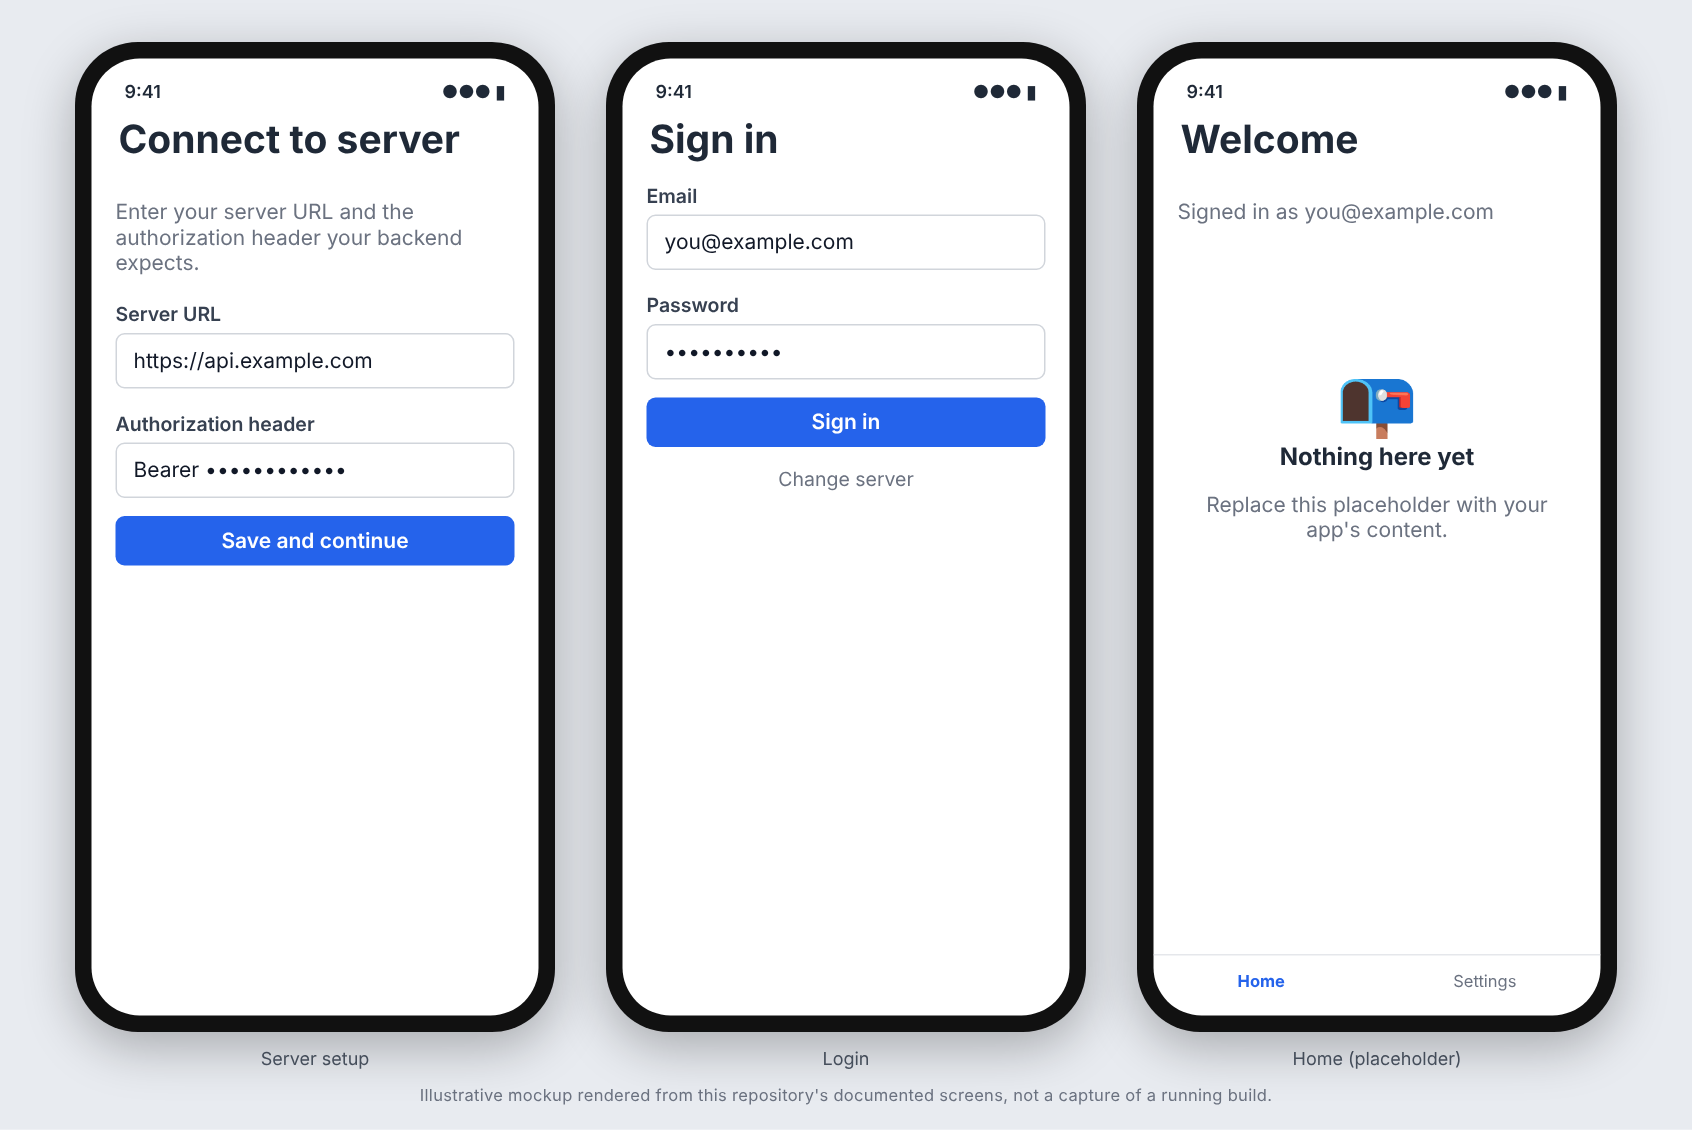
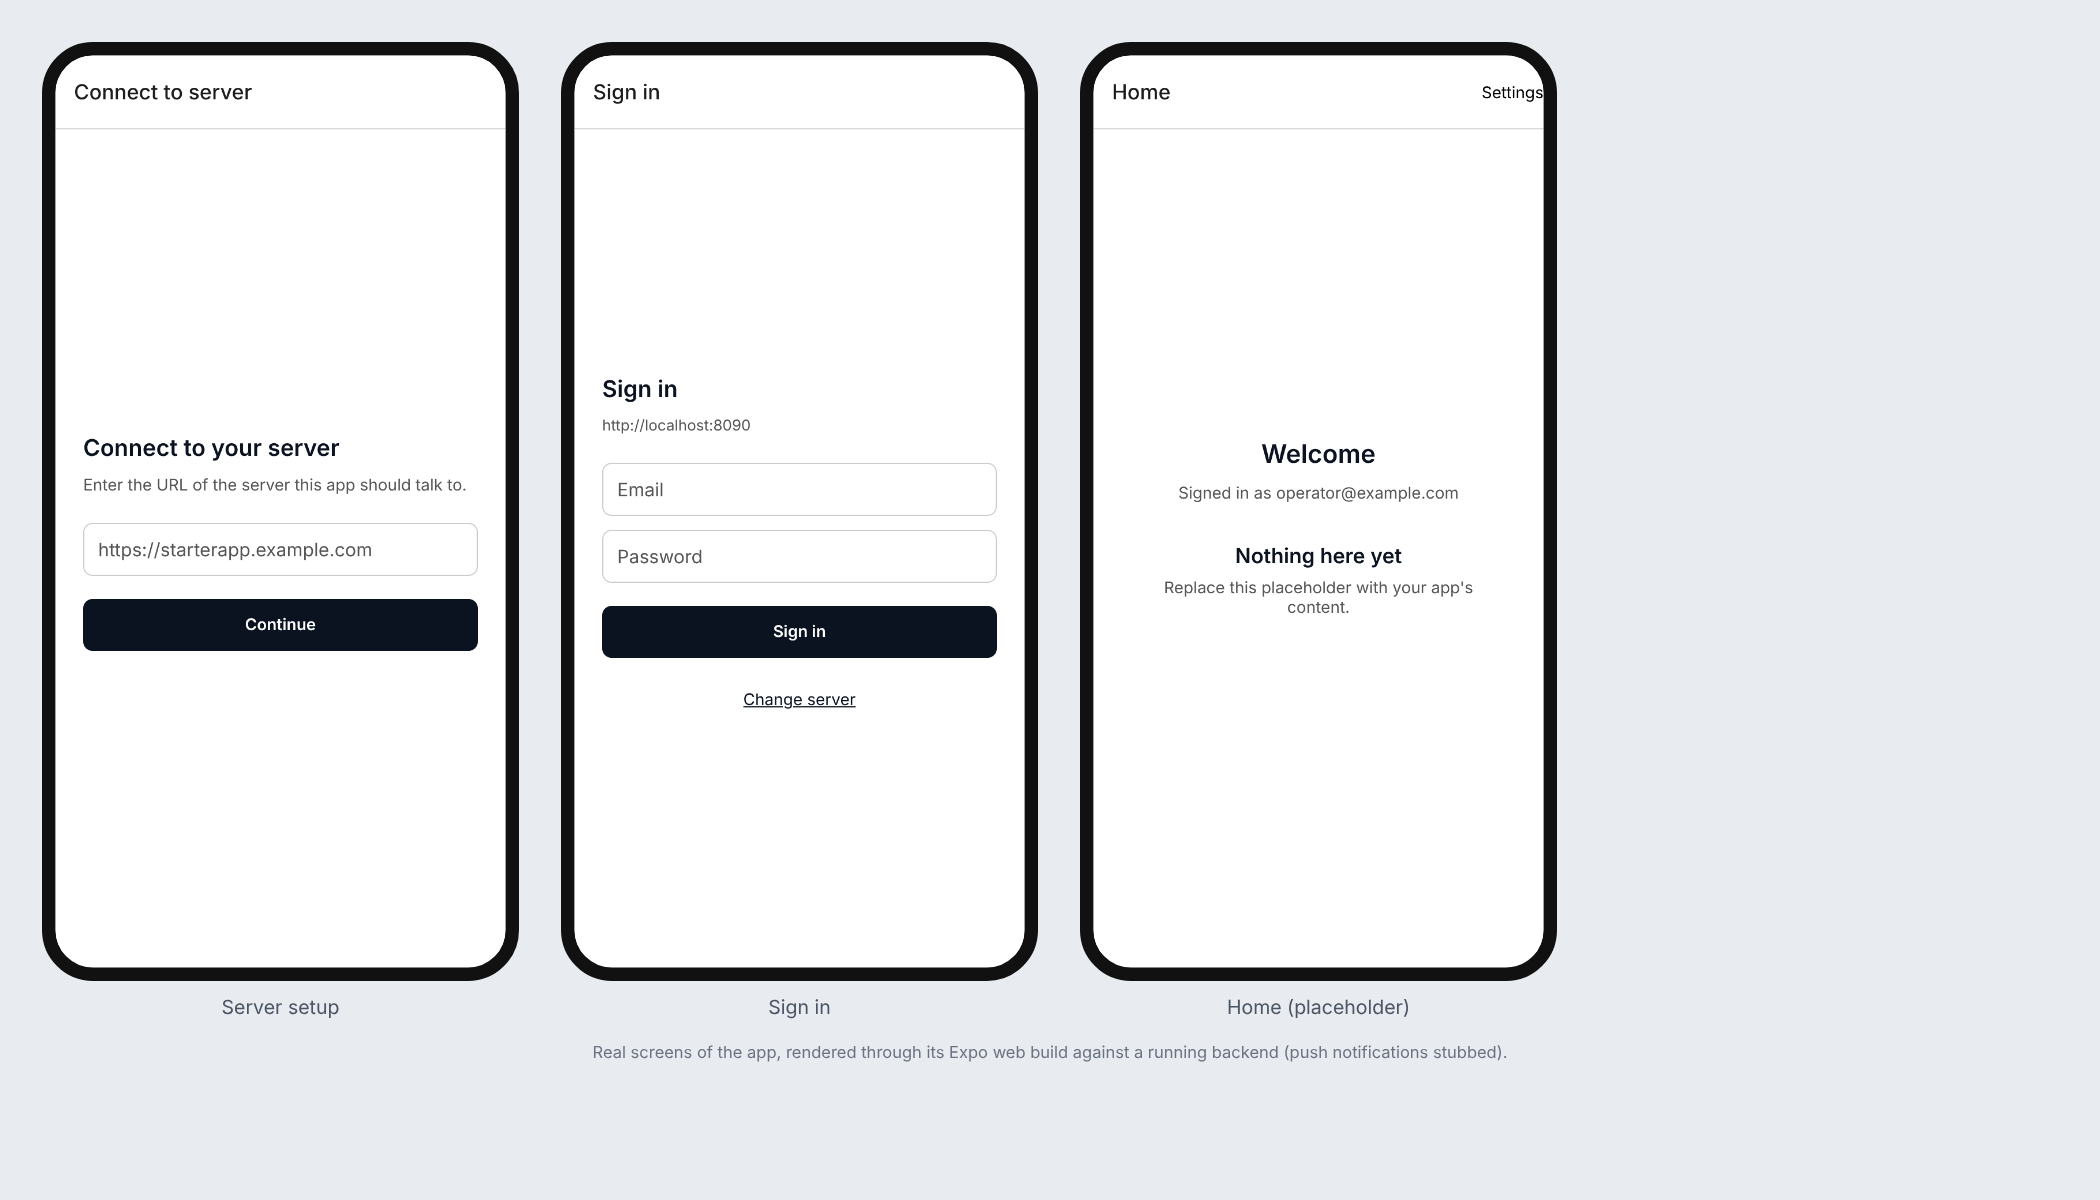
Replace mockups with real screens rendered from the Expo web build
Claude-Session: https://claude.ai/code/session_01MMnAbBEvfYn2oeVzGWoYsN

Changed region(s): [[0.0, 0.031, 0.9835, 0.9912]]

diff --git a/README.md b/README.md
@@ -6,9 +6,9 @@ async hook, and a Jest + Testing Library setup.
 
 ## Screenshots
 
-![Server setup, login and home screens](docs/screenshots/overview.png)
+![Server setup, sign in and home](docs/screenshots/overview.png)
 
-_These images are illustrative mockups rendered from this repository's documented screens and API shapes, not captures of a running build. Regenerate or replace them with real captures once the app is running._
+_Real screens of this template, not mockups. They were rendered through the Expo web build (`react-native-web`) in Chromium and driven with Playwright, signing in against a running backend that implements the same `/api/v1/auth/login` cookie-session contract. A web render is not a native iOS or Android capture: fonts and chrome differ, and `expo-notifications` has no web implementation, so it was stubbed for the capture and push behaviour is not shown._
 
 ## What is included
 
